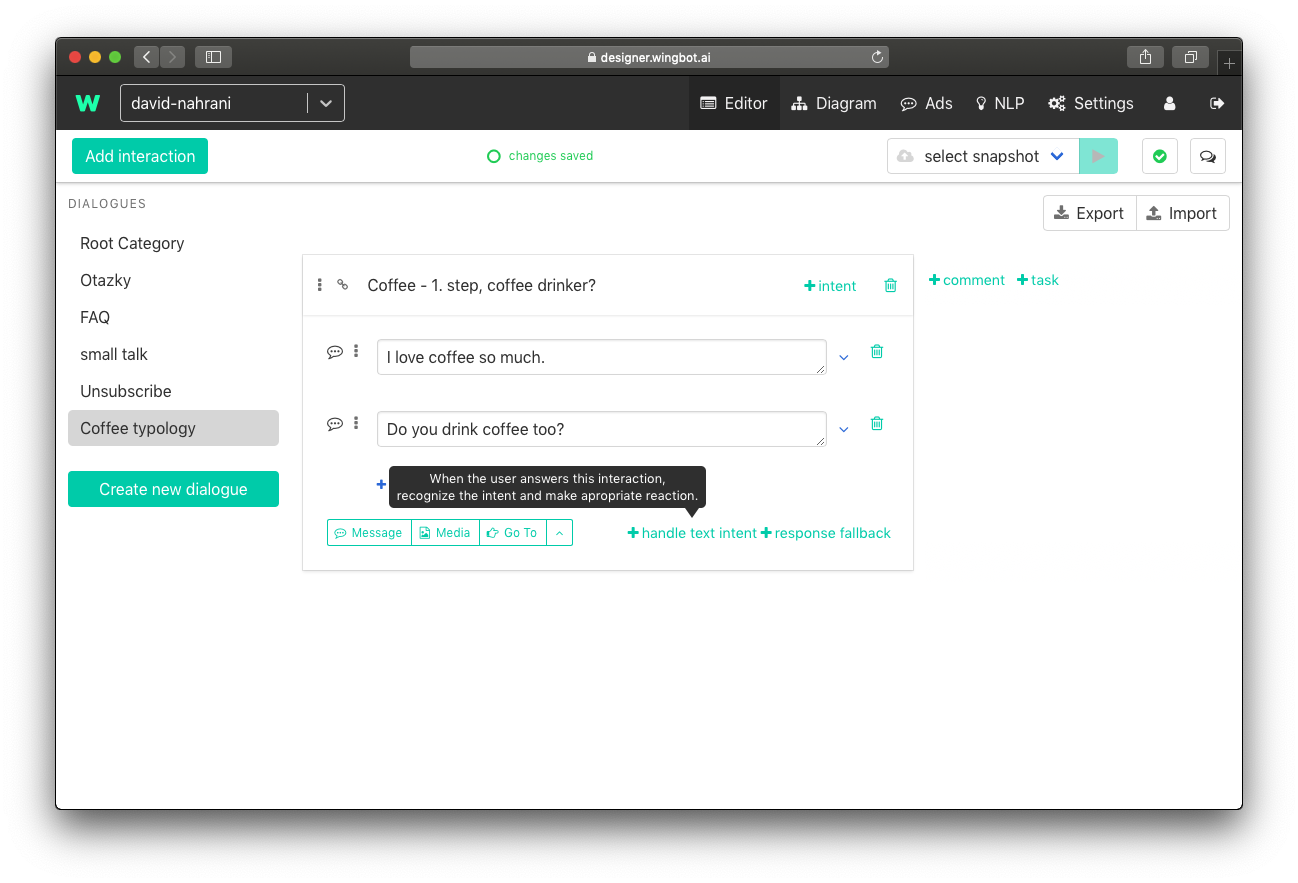
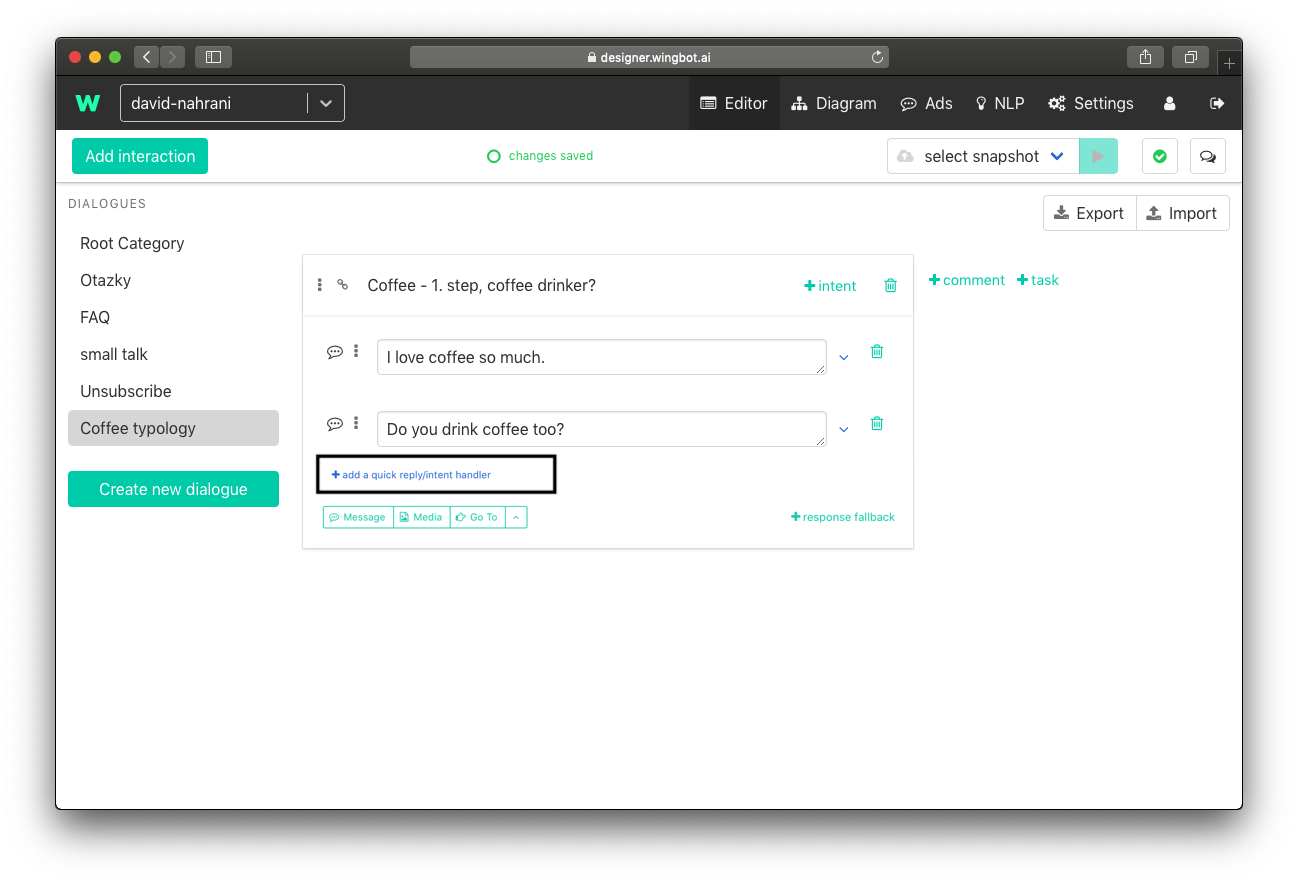
Aktualiace souboru: hlavně zastaralé screeny

Changed region(s): [[0.2157, 0.4892, 0.7088, 0.6116]]

diff --git a/doc/buildingABot/createDialogue/create_dialogue.md b/doc/buildingABot/createDialogue/create_dialogue.md
@@ -1,12 +1,8 @@
 # Create Dialogue in Wingbot
 
-We use folders for files that have something in common. We have dialogues and interactions in chatbot terminology. Dialogues are like folders and are used for interactions that are about one topic. Dialogue can be about topic "Coffee typology" and interaction is message to user "Do you drink coffee with milk?".
+We use folders for files that have something in common. We have dialogues and interactions in chatbot terminology. Dialogues are like folders and are used for interactions that are about **one topic**. Dialogue can be about topic "Coffee typology" and interaction is message to user "Do you drink coffee with milk?".
 
-##Create basic dialogue with interaction
-
-
-    Don't forget to log in :)
-
+## Create basic dialogue with interaction
 
 1. **Add a New Dialogue**
 
@@ -46,15 +42,13 @@ We use folders for files that have something in common. We have dialogues and in
   - We will start with adding messages - click to Message button below the name of interaction 
   - We are in casual conversation so lets talk with user like with friend. We will add two messages "I love coffee so much." and "Do you drink coffee too?"
 
-  
-
   ![bot visual](../createDialogue/4.png)
 
 
-We can start conversation with user at this point. But we can not still respond to user reply
+We can start conversation with user at this point. But we can not still respond to user reply.
 
 
-##Handle user responses
+## Handle user responses
 
 We sent the message and user will response. He can just type the message and we should recognize it. We have two options in this case - we found coffee drinker or not.
 
@@ -67,14 +61,13 @@ We sent the message and user will response. He can just type the message and we 
 
 5. **Add intents to handler in interaction**
 
+  - Click on **+ detect intent**.
   - Coffee drinker will give us positive reaction. We can use "positive" to the name of intent.
   - And now we can add texts, what can user type if he is coffee drinker.
 
     > Info: Intents can be used in more interactions.
 
     > Info: You don't have to worry about interpunction or uppercase.
-
-    > Remember: User can type with mistakes.
 
   ![bot visual](../createDialogue/6.png)
 
@@ -84,7 +77,7 @@ We sent the message and user will response. He can just type the message and we 
 
   - Use "Go to" below the intents, type the name of the next interaction and click to create in dropdown.
 
-  ![bot visual](../createDialogue/7.png)
+  ![bot visual](../createDialogue/7a.png)
 
 7. **Handle user responses in interaction for negative responses**
 
